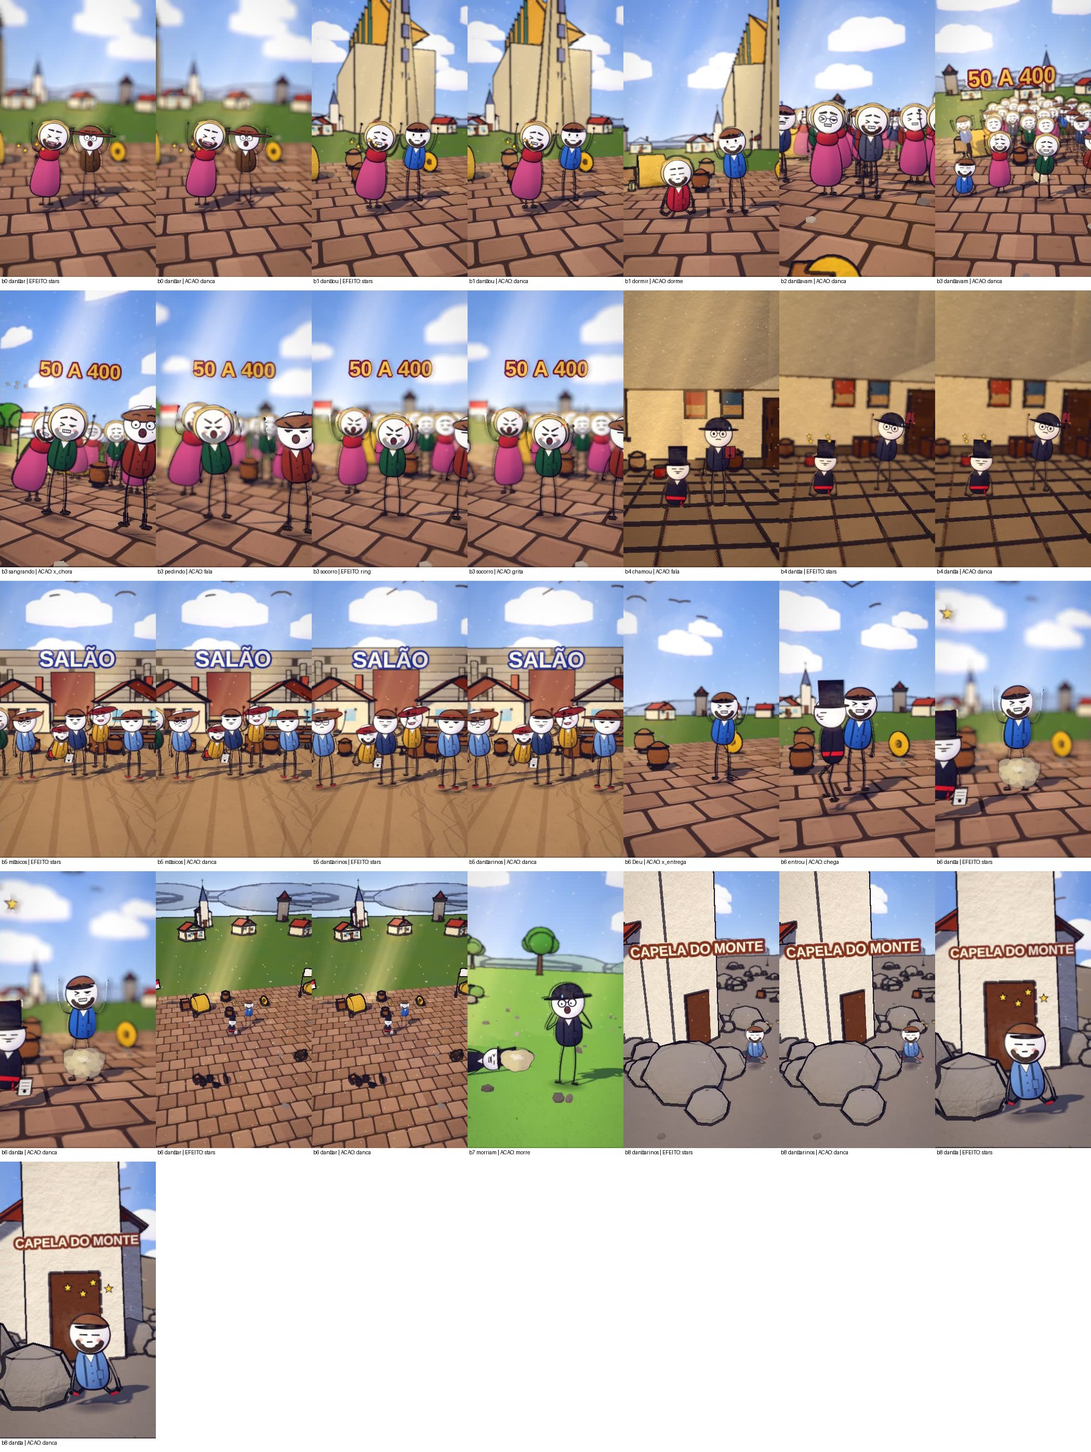
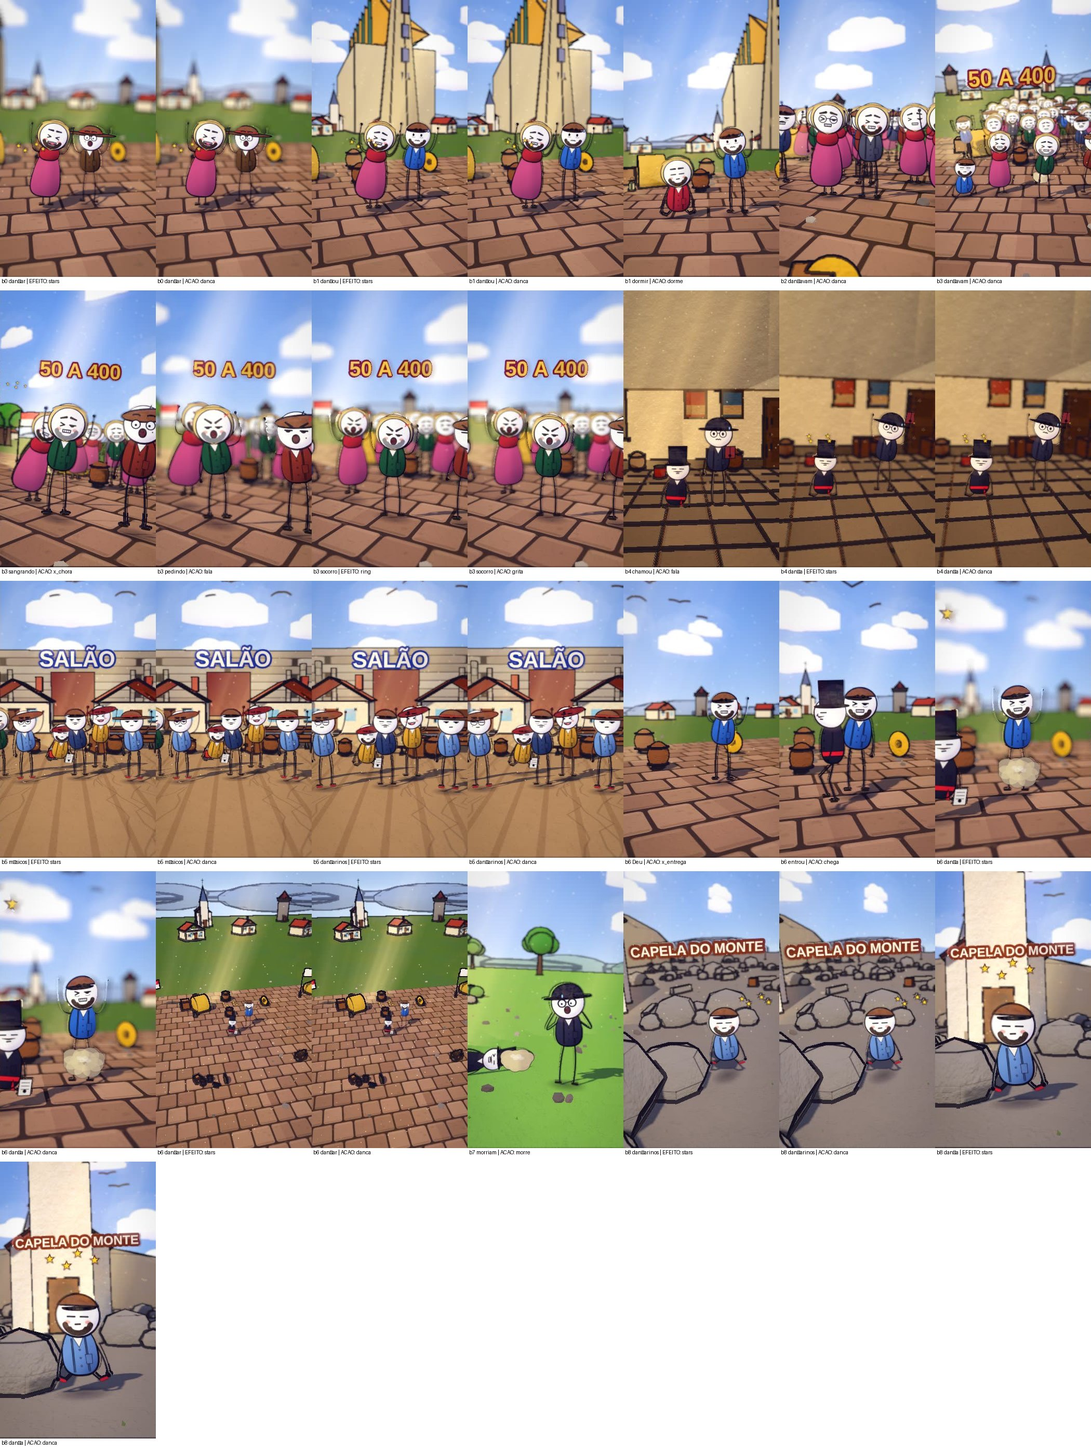
ckpt(danca1518): etapa style

Changed region(s): [[0.5571, 0.5914, 1.0, 0.8093], [0.0, 0.7782, 0.1548, 0.9961], [0.5571, 0.7782, 0.5881, 0.8093]]

diff --git a/ferramenta-shorts/stories/danca1518/spec.js b/ferramenta-shorts/stories/danca1518/spec.js
@@ -23,9 +23,9 @@ const SPEC = {
     { ...S('b5', A[5], A[6] - 1, X_hall, "day", { h: 2.4, d0: 20, d1: 16, el: 5, fov: 46, cx: 0.0, cz: -1.5, hero: { hero: 'none', wide: true }, vary: false, nocut: true, trans: 'dissolve', actors: [_MA(_MA(pp(X_hall, "MUS", 0, -1.0, -0.4, "grin", { over: { hold: "paper" }, pose: 'dance', acting: false }), { gests: [[WS(81) - 8, Math.max(WS(81) + 14, WS(85) - 5), 'up'], [WS(85) - 8, WS(85) + 46, 'up']] }), { poses: [[A[5], A[6] - 1, 'sleep']] }), _MA(pp(X_hall, "MUS", 1, 1.0, 0.2, "laugh", { pose: 'dance', acting: false }), { gests: [[WS(81) - 6, Math.max(WS(81) + 14, WS(85) - 5), 'up'], [WS(85) - 6, WS(85) + 46, 'up']] }), pp(X_hall, "POV", 0, -8.05, 0.84, "neutral", { look: -0.25, seed: 0, pose: 'dance', acting: false }), pp(X_hall, "DAN", 1, -5.79, 1.32, "neutral", { look: 0.25, seed: 4, pose: 'dance', acting: false }), pp(X_hall, "POV", 2, -3.53, 0.96, "neutral", { look: 0.0, seed: 8, pose: 'dance', acting: false }), pp(X_hall, "DAN", 3, -2.26, 1.44, "neutral", { look: 0.15, seed: 12, pose: 'dance', acting: false }), pp(X_hall, "POV", 4, 0.0, 1.08, "neutral", { look: -0.25, seed: 12, pose: 'dance', acting: false }), pp(X_hall, "DAN", 5, 2.26, 1.56, "neutral", { look: 0.25, seed: 16, pose: 'dance', acting: false })], props: [{ asset: "buildings/house_small", at: [X_hall + -6.0, -16.0], s: 1.2, drop: false }, { asset: "buildings/house_small", at: [X_hall + 6.0, -15.0], s: 1.2, drop: false }, { asset: "tools/lantern", at: [X_hall + 3.2, -6.4], s: 1.2 }], fx: [{ k: 'birds', a: A[5], b: A[6] - 1, at: [X_hall, DK + 7.5, -30], n: 6, dir: 1, off: 15 }, txt(X_hall, WS(75, -2), A[6] - 1, "SALÃO", '#fff6e0', '#27408b', 4.6, { s: 1.5, up: 0.42 }), { k: "stars", a: WS(81), b: WS(81) + 28, at: [X_hall + -8.05, DK + 0.5, 1.84], s: 1.9 }, { k: "stars", a: WS(85), b: WS(85) + 28, at: [X_hall + -3.53, DK + 0.5, 1.96], s: 1.9 }] }), nocut: true },
     { ...{ ...S('b6', A[6], Math.round(A[6] + (A[7] - 1 + 1 - (A[6])) * 0.3) - 1, X, "day", { h: 2.6, d0: 25.0, d1: 19.0, el: 11, fov: 46, az0: -38, az1: 32, cx: 0.0, cz: -1.5, hero: { hero: 'none', wide: true }, vary: false, nocut: true, trans: 'dissolve', actors: [_MA(_MA(_MA(pp(X, "PRE", 0, -1.0, -0.4, ((f) => f >= WS(96) - 4 ? "scared" : "stern"), { over: { hold: "paper" }, pose: 'dance', acting: false }), { gests: [[WS(88) - 8, Math.max(WS(88) + 14, WS(92) - 5), 'reach'], [WS(92) - 8, Math.max(WS(92) + 14, WS(94) - 5), 'point'], [WS(94) - 8, Math.max(WS(94) + 14, WS(107) - 5), 'up'], [WS(107) - 8, WS(107) + 46, 'up']] }), { poses: [[A[6], A[7] - 1, 'sleep']] }), { at: [X + 5.0, 0.5], move: [[X + -1.0, 1.3], Math.max(A[6], WS(92) - 30), WS(92) + 20, 'lin'], walk: 'stroll' }), _MA(pp(X, "POV", 0, 1.0, 0.2, ((f) => f >= WS(96) - 4 ? "scared" : "pained"), { pose: 'dance', acting: false }), { gests: [[WS(94) - 6, Math.max(WS(94) + 14, WS(107) - 5), 'up'], [WS(107) - 6, WS(107) + 46, 'up']] })], fx: [{ k: 'birds', a: A[6], b: A[7] - 1, at: [X, DK + 4.5, -30], n: 4, dir: -1, off: 8 }, { k: "dust", a: A[6] + 50, b: A[6] + 76, at: [X + 0.9, DK + 0.12, 1.0], s: 0.75 }, { k: "puff", a: A[6] + 110, b: A[6] + 136, at: [X + 0.9, DK + 0.12, 1.0], s: 0.75 }, { k: "stars", a: WS(94), b: WS(94) + 28, at: [X + -1.0, DK + 0.5, 2.5], s: 1.9 }, { k: "stars", a: WS(107), b: WS(107) + 28, at: [X + -1.0, DK + 0.5, 2.5], s: 1.9 }] }), nocut: true }, cam: [{ f: A[6], at: [X + 0.0, DK + 2.2, 0.5], d: 8.5, az: -26, el: 2, fov: 44 }, { f: Math.round(A[6] + (A[7] - 1 + 1 - (A[6])) * 0.3) - 1, at: [X + 1.0, DK + 2.2, 0.5], d: 7.4, az: -14, el: 3, fov: 44 }], nocut: true, vary: false }, { ...{ ...S('b6_1', Math.round(A[6] + (A[7] - 1 + 1 - (A[6])) * 0.3), Math.round(A[6] + (A[7] - 1 + 1 - (A[6])) * 0.55) - 1, X, "day", { h: 2.6, d0: 25.0, d1: 19.0, el: 11, fov: 46, az0: -38, az1: 32, cx: 0.0, cz: -1.5, hero: { hero: 'none', wide: true }, vary: false, nocut: true, trans: 'cut', actors: [_MA(_MA(_MA(pp(X, "PRE", 0, -1.0, -0.4, ((f) => f >= WS(96) - 4 ? "scared" : "stern"), { over: { hold: "paper" }, pose: 'dance', acting: false }), { gests: [[WS(88) - 8, Math.max(WS(88) + 14, WS(92) - 5), 'reach'], [WS(92) - 8, Math.max(WS(92) + 14, WS(94) - 5), 'point'], [WS(94) - 8, Math.max(WS(94) + 14, WS(107) - 5), 'up'], [WS(107) - 8, WS(107) + 46, 'up']] }), { poses: [[A[6], A[7] - 1, 'sleep']] }), { at: [X + 5.0, 0.5], move: [[X + -1.0, 1.3], Math.max(A[6], WS(92) - 30), WS(92) + 20, 'lin'], walk: 'stroll' }), _MA(pp(X, "POV", 0, 1.0, 0.2, ((f) => f >= WS(96) - 4 ? "scared" : "pained"), { pose: 'dance', acting: false }), { gests: [[WS(94) - 6, Math.max(WS(94) + 14, WS(107) - 5), 'up'], [WS(107) - 6, WS(107) + 46, 'up']] })], fx: [{ k: 'birds', a: A[6], b: A[7] - 1, at: [X, DK + 4.5, -30], n: 4, dir: -1, off: 8 }, { k: "dust", a: A[6] + 50, b: A[6] + 76, at: [X + 0.9, DK + 0.12, 1.0], s: 0.75 }, { k: "puff", a: A[6] + 110, b: A[6] + 136, at: [X + 0.9, DK + 0.12, 1.0], s: 0.75 }, { k: "stars", a: WS(94), b: WS(94) + 28, at: [X + -1.0, DK + 0.5, 2.5], s: 1.9 }, { k: "stars", a: WS(107), b: WS(107) + 28, at: [X + -1.0, DK + 0.5, 2.5], s: 1.9 }] }), nocut: true }, cam: [{ f: Math.round(A[6] + (A[7] - 1 + 1 - (A[6])) * 0.3), at: [X + -6.0, DK + 1.8, 0.0], d: 11, az: 30, el: 5, fov: 46 }, { f: Math.round(A[6] + (A[7] - 1 + 1 - (A[6])) * 0.55) - 1, at: [X + 4.0, DK + 1.8, 0.0], d: 11, az: 18, el: 5, fov: 46, ease: "lin" }], nocut: true, vary: false, glide: true }, { ...{ ...S('b6_2', Math.round(A[6] + (A[7] - 1 + 1 - (A[6])) * 0.55), A[7] - 1, X, "day", { h: 2.6, d0: 25.0, d1: 19.0, el: 11, fov: 46, az0: -38, az1: 32, cx: 0.0, cz: -1.5, hero: { hero: 'none', wide: true }, vary: false, nocut: true, trans: 'cut', actors: [_MA(_MA(_MA(pp(X, "PRE", 0, -1.0, -0.4, ((f) => f >= WS(96) - 4 ? "scared" : "stern"), { over: { hold: "paper" }, pose: 'dance', acting: false }), { gests: [[WS(88) - 8, Math.max(WS(88) + 14, WS(92) - 5), 'reach'], [WS(92) - 8, Math.max(WS(92) + 14, WS(94) - 5), 'point'], [WS(94) - 8, Math.max(WS(94) + 14, WS(107) - 5), 'up'], [WS(107) - 8, WS(107) + 46, 'up']] }), { poses: [[A[6], A[7] - 1, 'sleep']] }), { at: [X + 5.0, 0.5], move: [[X + -1.0, 1.3], Math.max(A[6], WS(92) - 30), WS(92) + 20, 'lin'], walk: 'stroll' }), _MA(pp(X, "POV", 0, 1.0, 0.2, ((f) => f >= WS(96) - 4 ? "scared" : "pained"), { pose: 'dance', acting: false }), { gests: [[WS(94) - 6, Math.max(WS(94) + 14, WS(107) - 5), 'up'], [WS(107) - 6, WS(107) + 46, 'up']] })], fx: [{ k: 'birds', a: A[6], b: A[7] - 1, at: [X, DK + 4.5, -30], n: 4, dir: -1, off: 8 }, { k: "dust", a: A[6] + 50, b: A[6] + 76, at: [X + 0.9, DK + 0.12, 1.0], s: 0.75 }, { k: "puff", a: A[6] + 110, b: A[6] + 136, at: [X + 0.9, DK + 0.12, 1.0], s: 0.75 }, { k: "stars", a: WS(94), b: WS(94) + 28, at: [X + -1.0, DK + 0.5, 2.5], s: 1.9 }, { k: "stars", a: WS(107), b: WS(107) + 28, at: [X + -1.0, DK + 0.5, 2.5], s: 1.9 }] }), nocut: true }, cam: [{ f: Math.round(A[6] + (A[7] - 1 + 1 - (A[6])) * 0.55), at: [X + 0.0, DK + 1.4, 0.0], d: 15, az: 8, el: 12, fov: 48 }, { f: A[7] - 1, at: [X + 0.0, DK + 1.0, -3.0], d: 34, az: -16, el: 30, fov: 48 }], nocut: true, vary: false, glide: true },
     S('b7', A[7], A[8] - 1, X_loc_campo, "day", { h: 2.3, d0: 9.8, d1: 8.8, az0: 24, az1: 10, vary: false, hero: { hero: 'any', frame: 'medium', minH: 0.07, main: 2 }, trans: 'dissolve', actors: [_MA(pp(X_loc_campo, "PRE", 0, -1.0, 1.3, "pained", { over: { hold: "paper" }, inter: { k: 'lunge', a: Math.round(A[7] + (A[8] - 1 - (A[7])) * 0.12), b: Math.round(A[7] + (A[8] - 1 - (A[7])) * 0.82), dir: 1, n: 2, ph: 0 } }), { poses: [[A[7], A[8] - 1, 'sleep'], [WS(113) + 2, A[8] - 1, 'fall']] }), pp(X_loc_campo, "MED", 0, 1.0, 1.0, "shock", { pose: 'react', inter: { k: 'lunge', a: Math.round(A[7] + (A[8] - 1 - (A[7])) * 0.2), b: Math.round(A[7] + (A[8] - 1 - (A[7])) * 0.9), dir: -1, n: 2, ph: 3.14 } })], fx: [{ k: 'dust', a: WS(113) + 4, b: WS(113) + 30, at: [X_loc_campo + -0.4, DK + 0.1, 1.6], s: 0.8 }] }),
-    S('b8', A[8], A[9] - 1, X_mountain, "day", { h: 2.0, d0: 10.0, d1: 9.0, az0: -32, az1: -18, cx: 0.0, cz: 0.0, vary: false, hero: { hero: 'any', frame: 'medium', minH: 0.07, main: 1 }, trans: 'dissolve', actors: [_MA(_MA(pp(X_mountain, "DAN", 0, 0.0, 1.3, "relief", { pose: 'dance', acting: false }), { gests: [[WS(128) - 8, Math.max(WS(128) + 14, WS(145) - 5), 'up'], [WS(145) - 8, WS(145) + 46, 'up']] }), { poses: [[A[8], A[9] - 1, 'sleep']] })], props: [{ asset: "buildings/church", at: [X_mountain + 0.0, -18.0], s: 1.3, fixo: true, drop: false }], fx: [{ k: 'birds', a: A[8], b: A[9] - 1, at: [X_mountain, DK + 7.5, -30], n: 6, dir: 1, off: 8 }, txt(X_mountain, WS(125, -2), A[9] - 1, "CAPELA DO MONTE", '#fff6e0', '#7a3a1c', 5.05, { s: 1.5, up: 0.42 }), { k: "stars", a: WS(128), b: WS(128) + 28, at: [X_mountain + 0.0, DK + 0.5, 2.5], s: 1.1 }, { k: "stars", a: WS(145), b: WS(145) + 28, at: [X_mountain + 0.0, DK + 0.5, 2.5], s: 1.1 }] }),
-    S('b9', A[9], A[10] - 1, X_hall, "study", { h: 2.55, d0: 3.5, d1: 2.9, az0: -2, az1: 3, hero: { hero: 'any', frame: 'medium', minH: 0.07, main: 1 }, trans: 'dissolve', actors: [_MA(pp(X_hall, "MED", 0, 0.0, 1.3, ((f) => f >= WS(149) - 4 ? "distrust" : "nervous"), { pose: 'react' }), { poses: [[A[9], A[10] - 1, 'sleep']] })], props: [{ asset: "kit/room_europa_wood", at: [X_hall, 0], s: 1, drop: false }, { asset: "mk/Cabinet", at: [X_hall + -7.2, -3.3], s: 2.3, drop: false }, { asset: "mk/Bed_Twin1", at: [X_hall + 7.0, -2.4], s: 2.1, drop: false }, { asset: "mk/Nightstand_Shelf", at: [X_hall + 4.6, -3.2], s: 2.2, drop: false }, { asset: "mk/CandleStick_Stand", at: [X_hall + -4.8, -2.8], s: 2.2, drop: false }, { asset: "mk/Barrel", at: [X_hall + -7.4, 0.8], s: 2.0, drop: false }] }),
-    S('b10', A[10], A[11] - 1, X_hall, "study", { h: 2.4, d0: 6.4, d1: 5.6, az0: -10, az1: -5, hero: { hero: 'any', frame: 'medium', minH: 0.07, main: 1 }, trans: 'dissolve', actors: [_MA(pp(X_hall, "PRE", 0, 0.0, 1.3, "grin", { pose: 'talk' }), { poses: [[A[10], A[11] - 1, 'sleep']] })], props: [{ asset: "kit/room_europa_wood", at: [X_hall, 0], s: 1, drop: false }, { asset: "mk/Cabinet", at: [X_hall + -7.2, -3.3], s: 2.3, drop: false }, { asset: "mk/Bed_Twin1", at: [X_hall + 7.0, -2.4], s: 2.1, drop: false }, { asset: "mk/Nightstand_Shelf", at: [X_hall + 4.6, -3.2], s: 2.2, drop: false }, { asset: "mk/CandleStick_Stand", at: [X_hall + -4.8, -2.8], s: 2.2, drop: false }, { asset: "mk/Barrel", at: [X_hall + -7.4, 0.8], s: 2.0, drop: false }], fx: [txt(X_hall, WS(161, -2), A[11] - 1, "COMENTE!", '#d8282f', '#fff6e0', 4.6, { s: 1.5, up: 0.55 })] })
+    { ...S('b8', A[8], A[9] - 1, X_mountain, "day", { h: 2.2, d0: 14.0, d1: 13.0, el: 5, fov: 46, cx: 0.0, cz: 0.0, hero: { hero: 'none', wide: true }, vary: false, nocut: true, trans: 'dissolve', actors: [_MA(_MA(pp(X_mountain, "DAN", 0, 0.0, -0.4, "relief", { pose: 'dance', acting: false }), { gests: [[WS(128) - 8, Math.max(WS(128) + 14, WS(145) - 5), 'up'], [WS(145) - 8, WS(145) + 46, 'up']] }), { poses: [[A[8], A[9] - 1, 'sleep']] }), pp(X_mountain, "DAN", 0, -8.05, 0.84, "relief", { look: -0.25, seed: 0, pose: 'dance', acting: false }), pp(X_mountain, "DAN", 1, -5.79, 1.32, "relief", { look: 0.25, seed: 4, pose: 'dance', acting: false }), pp(X_mountain, "DAN", 2, -3.53, 0.96, "relief", { look: 0.0, seed: 8, pose: 'dance', acting: false }), pp(X_mountain, "DAN", 3, -2.26, 1.44, "relief", { look: 0.15, seed: 12, pose: 'dance', acting: false }), pp(X_mountain, "DAN", 4, 0.0, 1.08, "relief", { look: -0.25, seed: 12, pose: 'dance', acting: false }), pp(X_mountain, "DAN", 5, 2.26, 1.56, "relief", { look: 0.25, seed: 16, pose: 'dance', acting: false })], props: [{ asset: "buildings/church", at: [X_mountain + 0.0, -14.0], s: 1.3, fixo: true, drop: false }, { asset: "kit/marco_viena", at: [X_mountain + -20, -80], s: 1.0, drop: false }], fx: [{ k: 'birds', a: A[8], b: A[9] - 1, at: [X_mountain, DK + 7.5, -30], n: 6, dir: 1, off: 8 }, txt(X_mountain, WS(125, -2), A[9] - 1, "CAPELA DO MONTE", '#fff6e0', '#7a3a1c', 4.6, { s: 1.5, up: 0.42 }), { k: "stars", a: WS(128), b: WS(128) + 28, at: [X_mountain + -2.26, DK + 0.5, 2.44], s: 1.9 }, { k: "stars", a: WS(145), b: WS(145) + 28, at: [X_mountain + 0.0, DK + 0.5, 2.08], s: 1.9 }] }), nocut: true },
+    S('b9', A[9], A[10] - 1, X_hall, "study", { h: 2.55, d0: 3.5, d1: 2.9, az0: -13, az1: -7, hero: { hero: 'any', frame: 'medium', minH: 0.07, main: 1 }, trans: 'dissolve', actors: [_MA(pp(X_hall, "MED", 0, 0.0, 1.3, ((f) => f >= WS(149) - 4 ? "distrust" : "nervous"), { pose: 'react' }), { poses: [[A[9], A[10] - 1, 'sleep']] })], props: [{ asset: "kit/room_europa_wood", at: [X_hall, 0], s: 1, drop: false }, { asset: "mk/Cabinet", at: [X_hall + -7.2, -3.3], s: 2.3, drop: false }, { asset: "mk/Bed_Twin1", at: [X_hall + 7.0, -2.4], s: 2.1, drop: false }, { asset: "mk/Nightstand_Shelf", at: [X_hall + 4.6, -3.2], s: 2.2, drop: false }, { asset: "mk/CandleStick_Stand", at: [X_hall + -4.8, -2.8], s: 2.2, drop: false }, { asset: "mk/Barrel", at: [X_hall + -7.4, 0.8], s: 2.0, drop: false }] }),
+    S('b10', A[10], A[11] - 1, X_hall, "study", { h: 2.4, d0: 6.4, d1: 5.6, az0: -2, az1: 3, hero: { hero: 'any', frame: 'medium', minH: 0.07, main: 1 }, trans: 'dissolve', actors: [_MA(pp(X_hall, "PRE", 0, 0.0, 1.3, "grin", { pose: 'talk' }), { poses: [[A[10], A[11] - 1, 'sleep']] })], props: [{ asset: "kit/room_europa_wood", at: [X_hall, 0], s: 1, drop: false }, { asset: "mk/Cabinet", at: [X_hall + -7.2, -3.3], s: 2.3, drop: false }, { asset: "mk/Bed_Twin1", at: [X_hall + 7.0, -2.4], s: 2.1, drop: false }, { asset: "mk/Nightstand_Shelf", at: [X_hall + 4.6, -3.2], s: 2.2, drop: false }, { asset: "mk/CandleStick_Stand", at: [X_hall + -4.8, -2.8], s: 2.2, drop: false }, { asset: "mk/Barrel", at: [X_hall + -7.4, 0.8], s: 2.0, drop: false }], fx: [txt(X_hall, WS(161, -2), A[11] - 1, "COMENTE!", '#d8282f', '#fff6e0', 4.6, { s: 1.5, up: 0.55 })] })
   ],
 };
 

diff --git a/ferramenta-shorts/stories/danca1518/cronograma.md b/ferramenta-shorts/stories/danca1518/cronograma.md
@@ -1,6 +1,6 @@
 # CRONOGRAMA - Curiosidade e Ciência EP 22 - A Praga da Dança
 
-Gerado em 24/11 20:20 | 11 cenas | metricas: acoes_encenadas 100%, acoes_chave_com_efeito 100%, explicacoes_cobertas 100%, cenario_e_epoca_ok 100%
+Gerado em 24/11 20:22 | 11 cenas | metricas: acoes_encenadas 100%, acoes_chave_com_efeito 100%, explicacoes_cobertas 100%, cenario_e_epoca_ok 100%
 
 ## 1. Plano de cenas (o que cada frase vai mostrar)
 
@@ -14,7 +14,7 @@ b4 | simples | interior pedra | two | PRE, MED | - | - | - | O conselho da cidad
 b5 | simples | hall | wide | MUS, MUS | 6 | house_two, lamppost | - | A cidade reformou salões e contratou músicos para manter os dançarinos
 b6 | chave | medieval | orbit | PRE, POV | - | - | corpo: tropa/personagens encenam a batalha; emissao: claroes de tiro, fumaca e poeira; luz: clarao; camera: 4 cameras em | Deu errado: mais gente entrou na dança, com medo de um castigo de São 
 b7 | simples | loc_campo | two | PRE, MED | - | - | - | Alguns dizem que morriam quinze por dia, mas os documentos da época nã
-b8 | simples | mountain | group | DAN | - | church | - | No fim, os dançarinos foram levados a uma capela no alto de um monte, 
+b8 | simples | mountain | wide | DAN | 6 | church, marco_viena | - | No fim, os dançarinos foram levados a uma capela no alto de um monte, 
 b9 | simples | interior madeira | close | MED | - | - | - | Hoje se suspeita de histeria coletiva, mas ninguém sabe ao certo o que
 b10 | simples | interior madeira | close | PRE | - | - | - | Agora não deixe de comentar: qual deve ser o tema do próximo vídeo?
 
@@ -27,15 +27,15 @@ N | Etapa | O que confere | Estado | Proximo passo
 3 | Modelagem do que falta | todo objeto das cenas existe na biblioteca 3D, da epoca e no tamanho real | FEITO | 
 4 | Travas do roteiro | folha 2 com 0 risco e folha 3 com 0 acao faltando (riscos agora: 0) | FEITO | 
 5 | Voz | narracao neural gerada e tempos por palavra | FEITO | 
-6 | Estilo e enquadramento | autoajuste de luz/cor e ajuste de camera de cada tomada | FEITO | 
-7 | Gates | camera OK, todas as tomadas OK, estilo OK | FEITO | 
-8 | Storyboard e grade de acoes | video inteiro em quadros + 1 quadro no instante de cada acao | FEITO | 
-9 | Revisao escrita e aprovacao | uma linha por frase conferindo com a folha 3 e com o quadro da pesquisa | PENDENTE | ./aprovar_storyboard.sh danca1518
+6 | Estilo e enquadramento | autoajuste de luz/cor e ajuste de camera de cada tomada | PENDENTE | 
+7 | Gates | camera OK, todas as tomadas OK, estilo OK | REFAZER (a etapa anterior mudou) | 
+8 | Storyboard e grade de acoes | video inteiro em quadros + 1 quadro no instante de cada acao | REFAZER (a etapa anterior mudou) | 
+9 | Revisao escrita e aprovacao | uma linha por frase conferindo com a folha 3 e com o quadro da pesquisa | BLOQUEADO (etapa anterior pendente) | ./aprovar_storyboard.sh danca1518
 10 | Render | todos os quadros renderizados nesta versao das folhas | BLOQUEADO (etapa anterior pendente) | 
 11 | Montagem e som | trechos + voz + musica + efeitos; volume normalizado | BLOQUEADO (etapa anterior pendente) | 
 12 | Conferencia | conferir.sh sem falha e folha de contato olhada | BLOQUEADO (etapa anterior pendente) | ./conferir.sh danca1518
 13 | Auditoria das acoes | 1 quadro do mp4 em cada palavra de acao | BLOQUEADO (etapa anterior pendente) | bash auditar_acoes.sh local danca1518 <mp4>
 14 | Entrega | mp4 original 1080x1920 enviado; commit e push | BLOQUEADO (etapa anterior pendente) | 
 
-**Etapa atual:** 9. Revisao escrita e aprovacao
+**Etapa atual:** 6. Estilo e enquadramento
 

diff --git a/ferramenta-shorts/stories/danca1518/folha2_producao.md b/ferramenta-shorts/stories/danca1518/folha2_producao.md
@@ -84,11 +84,11 @@ Coordenadas de cada cena para modelagem, animacao e camera, com os RISCOS que o 
 
 ## Cena b8 - No fim, os dançarinos foram levados a uma capela no alto de um monte, ...
 - Cenario: mountain | luz: day | clima: limpo
-- Camera: group = plano de grupo (corpo inteiro); angulo muda a cada ~2 s
-- Takes: 4 take(s) de ~1,8 s, deslizando de um para o outro: 3/4 pela esquerda, mais alto e aberto -> leve direita, perto -> esquerda alta, aberto -> direita baixa
-- Personagens principais (1): DAN (variante 0, expressao relief) | multidao: 0 de 
+- Camera: wide = ABERTO fixo
+- Takes: 1 tomada continua, sem corte (camera abre/gira devagar)
+- Personagens principais (1): DAN (variante 0, expressao relief) | multidao: 6 de DAN
 - Animacao: dancar
-- Objetos/modelos: buildings/church
+- Objetos/modelos: buildings/church, kit/marco_viena
 - CONFERIR NA FOLHA DE CONTATO (o que a narracao cita tem que aparecer): alto, capela, danca, dancarinos, monte, sapatos
 - RISCOS: nenhum
 
@@ -117,14 +117,14 @@ Regra: todo objeto, utensilio, veiculo e animal que aparece e' modelo 3D feito n
 
 Objeto | Cenas | Situacao | O que fazer
 ---|---|---|---
-kit/marco_viena | b0, b1 | pronto | conferir na folha de contato se le bem; se parecer caixote, refazer com formas.py
+kit/marco_viena | b0, b1, b8 | pronto | conferir na folha de contato se le bem; se parecer caixote, refazer com formas.py
 buildings/house_two | b5 | pronto | conferir na folha de contato se le bem; se parecer caixote, refazer com formas.py
 nature/lamppost | b5 | pronto | conferir na folha de contato se le bem; se parecer caixote, refazer com formas.py
 buildings/church | b8 | pronto | conferir na folha de contato se le bem; se parecer caixote, refazer com formas.py
 
 
 ## Video inteiro
-- Objeto heroi: - | grandes momentos: b2, b6 | planos abertos: 3 | mistura: close 20% | medio 66% | aberto 14% | detalhe 0%
+- Objeto heroi: - | grandes momentos: b2, b6 | planos abertos: 4 | mistura: close 20% | medio 54% | aberto 27% | detalhe 0%
 - Interacoes: b0 susto, b1 aproxima-se, b3 empurrar, b4 avanca e o outro recua, b7 discutir
 - RISCOS GERAIS: nenhum
 

diff --git a/ferramenta-shorts/stories/danca1518/plano.md b/ferramenta-shorts/stories/danca1518/plano.md
@@ -10,9 +10,9 @@ b4 | two | -  | interior, objeto na mao | dança (stars + som de sino); encena: 
 b5 | wide | -  | tropa, placa: SALÃO | músicos (stars + som de sino); dançarinos (stars + som de sino); encena: danca (up) @6 (acao + som de efeito); encena: danca (up) @10 (acao + som de efeito) | -
 b6 | orbit | -  | batalha aberta com tiros, tropa, objeto na mao | (rosto) scared (expr + som de efeito); dança (stars + som de sino); dançar (stars + som de sino); encena: x_entrega (reach) @0 (acao + som de efeito); encena: chega (point) @4 (acao + som de efeito); encena: danca (up) @6 (acao + som de efeito); encena: danca (up) @19 (acao + som de efeito) | -
 b7 | two | -  | - | encena: morre @3 (acao + som de efeito) | -
-b8 | group | -  | tropa, placa: CAPELA DO MONTE | dançarinos (stars + som de sino); dança (stars + som de sino); encena: danca (up) @3 (acao + som de efeito); encena: danca (up) @20 (acao + som de efeito) | -
+b8 | wide | -  | tropa, placa: CAPELA DO MONTE | dançarinos (stars + som de sino); dança (stars + som de sino); encena: danca (up) @3 (acao + som de efeito); encena: danca (up) @20 (acao + som de efeito) | -
 b9 | close | -  | interior | (rosto) distrust (expr + som de efeito) | -
 b10 | close | -  | interior, placa: COMENTE! | - | -
 
-Mistura de planos: close 20% | medio 66% | aberto 14% | detalhe 0%  (canal: close 10% | medio+corpo 67% | aberto 19% | detalhe 5-15%)
-Planos abertos: 3 | AVISOS: sem detalhe de objeto (ponha um objeto em "props" ou um "text" numa cena de 11+ palavras)
+Mistura de planos: close 20% | medio 54% | aberto 27% | detalhe 0%  (canal: close 10% | medio+corpo 67% | aberto 19% | detalhe 5-15%)
+Planos abertos: 4 | AVISOS: sem detalhe de objeto (ponha um objeto em "props" ou um "text" numa cena de 11+ palavras)

diff --git a/ferramenta-shorts/stories/danca1518/folha2_enquadramento.md b/ferramenta-shorts/stories/danca1518/folha2_enquadramento.md
@@ -63,10 +63,10 @@ Cada cena: LOCAL, CAMERA, PERSONAGENS, OBJETOS (lugar, tamanho real e na tela, e
 
 ## b8: "No fim, os dançarinos foram levados a uma capela no alto de um monte, com sapatos vermelhos benzidos, e a dança parou."
 - LOCAL: encosta de montanha; hora: day
-- CAMERA: plano de grupo (3+ pessoas); plano aberto mirando o church (alvo z -2.0, camera a 20.0 m, altura 4.0 m), sem multidao na frente
-- PERSONAGENS: DAN no centro, expressao relief; sem multidao; acao: fala/gesto
+- CAMERA: plano aberto (cenario inteiro); plano aberto mirando o church (alvo z -2.0, camera a 20.0 m, altura 4.0 m), sem multidao na frente
+- PERSONAGENS: DAN no centro, expressao relief; multidao de 6 (DAN) ATRAS dos principais; acao: fala/gesto
 - OBJETO buildings/church: FUNDO, centro (objeto principal da cena); tamanho na tela: 30% da altura da tela; estado: PARADO; 20.8 m de altura x 16.1 m: ATRAS dos personagens, de lado, ocupando a largura do quadro (a ponta pode sair da tela); personagens na frente, menores
-- TEXTO NA TELA: "CAPELA DO MONTE" numa placa atras dos personagens, na palavra 1 da frase
+- TEXTO NA TELA: "CAPELA DO MONTE" flutuando no alto, na palavra 1 da frase
 
 ## b9: "Hoje se suspeita de histeria coletiva, mas ninguém sabe ao certo o que aconteceu."
 - LOCAL: sala de madeira; hora: day

diff --git a/ferramenta-shorts/stories/danca1518/preproducao.md b/ferramenta-shorts/stories/danca1518/preproducao.md
@@ -12,7 +12,7 @@ b4 | interior pedra | two | 2 | reagir, INTERAGEM: avanca e o outro recua | - | 
 b5 | hall | wide | 8 | dancar | buildings/house_two, nature/lamppost | - | -
 b6 | medieval | orbit | 2 | dancar, batalha | - | paper | -
 b7 | loc_campo | two | 2 | reagir, INTERAGEM: discutir | - | - | -
-b8 | mountain | group | 1 | dancar | buildings/church | - | -
+b8 | mountain | wide | 7 | dancar | buildings/church, kit/marco_viena | - | -
 b9 | interior madeira | close | 1 | reagir | - | - | -
 b10 | interior madeira | close | 1 | conversar | - | - | -
 

diff --git a/ferramenta-shorts/stories/danca1518/folha3_acao.md b/ferramenta-shorts/stories/danca1518/folha3_acao.md
@@ -97,7 +97,7 @@ Catalogo de TODAS as acoes do roteiro, frase por frase, com o instante (segundos
 | 2 | - | INTERACAO | discutir | OK |
 | 3 | - | ATUACAO | reagir | OK |
 
-## Cena b8 - 46.0s a 52.2s - 22 palavras - plano group
+## Cena b8 - 46.0s a 52.2s - 22 palavras - plano wide
 > "No fim, os dançarinos foram levados a uma capela no alto de um monte, com sapatos vermelhos benzidos, e a dança parou."
 
 | # | palavra (instante) | acao catalogada | animacao executada | ok? |
